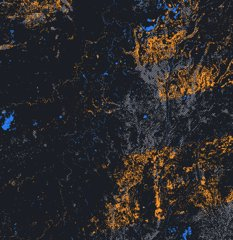
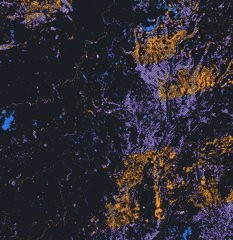
[Roy] Film: violet "cannot see" blank and "NISAR addition" legend, same as Home
- scripts/violet_blank.py: violet Tonle Sap mask layer + recoloured site thumbnails (grey hatch → violet)
- docs/11-Design.md: blank style and legend names

diff --git a/site/landing.html b/site/landing.html
@@ -21,9 +21,9 @@
   #txt .k { font-size: 13px; letter-spacing: .14em; text-transform: uppercase; color: var(--o); margin-bottom: 14px; min-height: 1em; }
   #txt h1 { font-size: clamp(20px, 2.1vw, 32px); line-height: 1.3; margin: 0; font-weight: 600; }
   #txt h1 b { color: #ff9a2e; font-weight: 700; } #txt h1 b.bl { color: #4aa3ff; } #txt h1 b.rc { color: #ff6060; } #txt h1 b.wh { color: #fff; }
-  #txt h1 b.gy { color: #d6d6e0; padding: 0 4px; position: relative; isolation: isolate; }
+  #txt h1 b.gy { color: #e6e2ff; padding: 0 4px; position: relative; isolation: isolate; }
   #txt h1 b.gy::before { content: ''; position: absolute; inset: 0; z-index: -1; border-radius: 3px; opacity: 0;
-    background: repeating-linear-gradient(45deg,rgba(200,200,210,.28) 0 2px,transparent 2px 6px);
+    background: repeating-linear-gradient(135deg,rgba(236,238,248,.35) 0 1.5px,transparent 1.5px 6px), rgba(70,52,120,.55);
     animation: gyin .9s ease forwards; animation-delay: var(--d, 0ms); }
   @keyframes gyin { to { opacity: 1; } }
   .ch { opacity: 0; animation: chIn .35s ease forwards; } @keyframes chIn { to { opacity: 1; } }
@@ -115,7 +115,7 @@ map.attributionControl.setPrefix('');
 ['flyTo', 'flyToBounds', 'fitBounds', 'setView'].forEach(fn => { const o = map[fn].bind(map); map[fn] = (...a) => { try { return o(...a); } catch (e) { return map; } }; });   // never let a camera move break a scene
 const A = 'story/tonlesap/', B = L.latLngBounds([[12.3005, 103.5949], [13.2994, 104.7009]]);
 const img = f => L.imageOverlay(A + f, B, { opacity: 0, interactive: false }).addTo(map);
-const P = { photo: img('photo_2026-10-19.jpg'), excl: img('gfm_excluded.png'), gfm: img('gfm_flood.png'), add: img('nisar_added.png') };
+const P = { photo: img('photo_2026-10-19.jpg'), excl: img('gfm_excluded_violet.png'), gfm: img('gfm_flood.png'), add: img('nisar_added.png') };
 const box = L.rectangle(B, { color: '#ffffff', weight: 2.5, dashArray: '6 5', fill: false, opacity: 0, interactive: false }).addTo(map);
 let fast = false, mgen = 0;
 const many = (os, v, step = 0) => { const g = mgen; os.forEach((o, k) => (fast || !step) ? vis(o, v) : setTimeout(() => g === mgen && vis(o, v), k * step)); };
@@ -127,8 +127,8 @@ function flash(o) {                            // blink a newly shown layer so i
 }
 let on_ = [];
 const show = on => { for (const k in P) { const was = on_.includes(k), now = on.includes(k); vis(P[k], now ? 1 : 0); if (now && !was) flash(P[k]); } on_ = on.slice(); };
-const LG = { gfm: ['#2882ff', 'Flood seen by Sentinel-1 (GFM)'], excl: ['repeating-linear-gradient(45deg,#c8c8d2 0 2px,#3c3c46 2px 6px)', 'GFM: "cannot see here"'],
-             add: ['#ff9a2e', 'Only NISAR: water in the blank'] };
+const LG = { gfm: ['#2882ff', 'Flood seen by Sentinel-1 (GFM)'], excl: ['repeating-linear-gradient(135deg,rgba(236,238,248,.9) 0 1.5px,transparent 1.5px 4px),#46347a', 'GFM: "cannot see here"'],
+             add: ['#ff9a2e', 'NISAR addition: water in the blank'] };
 const legend = ks => { $('lg').innerHTML = ks.map(k => `<div><i style="background:${LG[k][0]}"></i>${LG[k][1]}</div>`).join(''); $('lg').classList.toggle('in', ks.length > 0); };
 let sayGen = 0;
 function typeset(el, html, start) {          // each character fades in, one after another

diff --git a/scripts/violet_blank.py b/scripts/violet_blank.py
@@ -1,0 +1,45 @@
+"""Restyle the official map's "cannot see" area from grey hatch to the site's violet hatch (docs/11-Design.md).
+
+1. site/story/tonlesap/gfm_excluded_violet.png: violet tint + white 45° lines, from the GFM exclusion mask (film layer).
+2. site/story/world/thumbs/*.jpg: the film's site thumbnails, grey hatch pixels recoloured to violet/white in place
+   (originals are in git history).
+
+Run from the repo root:  python scripts/violet_blank.py
+"""
+from pathlib import Path
+
+import numpy as np
+from PIL import Image
+
+ROOT = Path(__file__).resolve().parents[1]
+STORY = ROOT / "site" / "story"
+VIOLET = np.array([70, 52, 120])      # tint, as rgba(70,52,120,.6) on Home
+LINE = np.array([236, 238, 248])      # hatch lines
+
+
+def layer() -> None:
+    a = np.asarray(Image.open(STORY / "tonlesap" / "gfm_excluded.png").convert("RGBA"))
+    m = a[..., 3] > 0
+    yy, xx = np.mgrid[0:m.shape[0], 0:m.shape[1]]
+    line = ((xx - yy) % 20) < 5                                   # 135° lines; ~6 px apart at the film's zoom
+    out = np.zeros(a.shape, np.uint8)
+    out[..., :3] = np.where(line[..., None], LINE, VIOLET)
+    out[..., 3] = np.where(m, np.where(line, 220, 150), 0)
+    Image.fromarray(out).save(STORY / "tonlesap" / "gfm_excluded_violet.png", optimize=True)
+
+
+def thumbs() -> None:
+    for p in sorted((STORY / "world" / "thumbs").glob("*.jpg")):
+        a = np.asarray(Image.open(p).convert("RGB")).astype(float)
+        mx, mn = a.max(-1), a.min(-1)
+        grey = (mx - mn < 28) & (mx > 58)                          # hatch pixels: light-grey stripes on dark grey
+        t = np.clip((mx - 58) / (200 - 58), 0, 1)[..., None]
+        col = VIOLET * (1 - t) + LINE * t
+        out = np.where(grey[..., None], col, a).clip(0, 255).astype(np.uint8)
+        Image.fromarray(out).save(p, quality=90)
+
+
+if __name__ == "__main__":
+    layer()
+    thumbs()
+    print("done")

diff --git a/docs/11-Design.md b/docs/11-Design.md
@@ -31,8 +31,8 @@ Use the tokens (`var(--…)`), not raw values.
 | `--water` | `#4aa3ff` | links in dialogs |
 | `--danger` / `--ok` | `#f85149` / `#3fb950` | alerts / checks |
 
-**Map data colours are not UI colours.** GFM flood blue `#2882ff`, the grey "cannot see" hatch and NISAR orange `#ff9a2e`
-belong to the layers and their legends only. Don't use orange for buttons or headings, so NISAR's water stands out.
+**Map data colours are not UI colours.** GFM flood blue `#2882ff`, the "cannot see" blank (white 135° lines on violet `rgba(70,52,120,.6)`) and NISAR orange `#ff9a2e`
+belong to the layers and their legends only. Legend names: "Flood in the official map (GFM)", "cannot see here", "NISAR addition: water in the blank". Don't use orange for buttons or headings, so NISAR's water stands out.
 
 ## Space and shape
 
